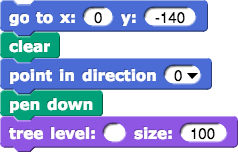
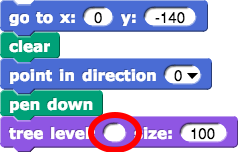
U6L1 review finished. (Two comments left: one where Paul and Mary want a copy-paste movie on p. 1, and one about not calling the lab "Trees in a Forest" if the exercise on page 5 that makes the forest is optional.)

Changed region(s): [[0.3529, 0.7368, 0.6176, 1.0]]

diff --git a/cur/programming/6-recursion/1-trees/3-tree-input-self-check.html b/cur/programming/6-recursion/1-trees/3-tree-input-self-check.html
@@ -9,8 +9,8 @@
 	<body>
 		<h2><code>Tree</code> Input Self Check</h2>
         <p>
-        	Each of these questions refer to this version of the <code>tree</code> block and this script that calls it. Notice the blank in the <code>tree</code> <var>level</var> input slot.<br />
-            <img class="indent" src="/bjc-r/img/6-recursion/tree-code-snap.png" alt="tree block definition" title="tree block definition"/>
+        	Each of these questions refer to this version of the <code>tree</code> block and this script that calls it. Notice the blank in the <code>tree</code> <var>level</var> input slot in the calling script. Inside the <code>tree</code> script, we have changed the turning angles and size scaling factors so that the left and right branches are the same, to make the pictures of trees easier to understand.<br />
+            <img class="indent" src="/bjc-r/img/6-recursion/quiztree.png" alt="tree block definition" title="tree block definition"/>
             <img class="indent" src="/bjc-r/img/6-recursion/tree-size-100-call.png" alt="tree toplevel script" title="tree toplevel script" />
         </p>
 		<!-- Question 1 -->
@@ -20,16 +20,16 @@
         
             <div class="prompt">
                 <img class="imageRight" src="/bjc-r/img/6-recursion/tree-level5.jpg" alt="How many levels in this tree?" title="How many levels in this tree?"/>
-                <p>If this were the picture that was drawn, what number must have been in the <var>level</var> input slot?</p>
+                <p>If this picture is drawn, what number must be in the <var>level</var> input slot?</p>
                 <p>In other words, what goes in the blank in the code above to make this image? </p>
             </div>
             
             <div class="choice" identifier="c0">
                 <div class="text">
-                    <b>0</b>
+                    <b>6</b>
                 </div>
                 <div class="feedback">
-                    Not quite. How many different sizes of line segment are in the picture?
+                    How many different sizes of line segment are in the picture?
                 </div>
             </div>
             
@@ -38,18 +38,11 @@
                     <b>1</b>
                 </div>
                 <div class="feedback">
-                    Not quite. How many different sizes of line segment are in the picture?
+                    How many different sizes of line segment are in the picture?
                 </div>
             </div>
             
-            <div class="choice" identifier="c4">
-                <div class="text">
-                    <b>4</b>
-                </div>
-                <div class="feedback">
-                    Not quite. How many different sizes of line segment are in the picture?
-                </div>
-            </div>
+
             
             <div class="choice" identifier="c5">
                 <div class="text">
@@ -59,7 +52,14 @@
                     Nice! There are indeed five different levels present in the tree.
                 </div>
             </div>
-        
+            <div class="choice" identifier="c4">
+                <div class="text">
+                    <b>4</b>
+                </div>
+                <div class="feedback">
+                    How many different sizes of line segment are in the picture?
+                </div>
+            </div>        
             <div class="responseDeclaration" identifier="ri1">
                 <div class="correctResponse" identifier="c5"></div>
             </div>
@@ -95,7 +95,7 @@
             
             <div class="choice" identifier="c2">
                 <div class="text">
-                    <b>Nothing - it will work just like if the same positive value was provided.</b>
+                    <b>It will work just as if the <var>size</var> were positive 100.</b>
                 </div>
                 <div class="feedback">
                     Not quite. What happens when we plug in a negative value to the <code>move</code> block?
@@ -136,29 +136,28 @@
             
             <div class="choice" identifier="c0">
                 <div class="text">
-                    <b>The program will never stop running and a lot of different branches will be drawn.</b>
+                    <b>The program will never stop running, but it will draw a tree-looking tree with more and more smaller and smaller branches.</b>
                 </div>
                 <div class="feedback">
-                    You're correct that the program will never stop running. Try walking through the code step-by-step to see exactly what happens.
+                    It's true that the program will never stop running. Try walking through the code step-by-step to see exactly what it draws.
                 </div>
             </div>
             
             <div class="choice" identifier="c1">
                 <div class="text">
-                    <b>It will never stop running and there will be no forks in the version of the tree that is drawn.</b>
+                    <b>It will never stop running, and the picture will be a leftward spiral with the sprite spinning around in midair.</b>
                 </div>
                 <div class="feedback">
-                    Correct! The function will never hit the <code>levels = 0</code> case, and will only ever make the first call to itself.
+                    Correct! The function will never hit the <code>level = 1</code> case, and will only ever make the left-branch call to itself.
                 </div>
             </div>
             
             <div class="choice" identifier="c2">
                 <div class="text">
-                    <b>Nothing - it will work just like if the same positive value was provided.</b>
+                    <b>It will work just as if the <var>size</var> were positive 4.</b>
                 </div>
                 <div class="feedback">
-                    Not quite. Will the <code>repeat until</code> loop's condition ever be true?
-                </div>
+                    Will the recursion ever reach level 1?</div>
             </div>
             
             <div class="choice" identifier="c3">
@@ -166,8 +165,7 @@
                     <b>The image will be flipped upside down but will otherwise look the same.</b>
                 </div>
                 <div class="feedback">
-                    Not quite. Will the <code>repeat until</code> loop's condition ever be true?
-                </div>
+                    Does the <var>level</var> input affect the <code>move</code> blocks?</div>
             </div>
             
                         <div class="choice" identifier="c4">

diff --git a/cur/programming/6-recursion/1-trees/2-base-case.html b/cur/programming/6-recursion/1-trees/2-base-case.html
@@ -9,13 +9,18 @@
 	<body>
 		<h2>The Base Case</h2>	
         <p>
-        	<div class="sidenote">Recall, <em>recursive</em> means a script that calls itself.</div>
-        	We first tried to build the recursive tree by using the same script as for <code>tree2</code>, <code>tree3</code>, etc. and replacing the call to a lower-level tree with a call to <code>tree</code> itself but with a lower level input, like this:<br />
+        	<div class="sidenote">Recall, a <em>recursive</em> script is a script that calls itself.</div>
+        	<p>Last time, we tried to replace all the numbered tree scripts with a single script following this pattern:</p>
+        	<p>&nbsp;</p>
+        	<p>&nbsp;</p>
+        	<p><img src="/bjc-r/img/6-recursion/tree2.png" height="267" alt="tree2 script">&nbsp;&nbsp; <img src="/bjc-r/img/6-recursion/tree3.png" height="267" alt="tree3 script">&nbsp;&nbsp;&nbsp;&nbsp;&nbsp;&nbsp;&nbsp;&nbsp;&nbsp;&nbsp;&nbsp;&nbsp; <img src="/bjc-r/img/6-recursion/tree-nobase.png" height="267" alt="tree, no base case"></p>
+       <!-- 	<p>We first tried to build the recursive tree by using the same script as for <code>tree2</code>, <code>tree3</code>, etc. and replacing the call to a lower-level tree with a call to <code>tree</code> itself but with a lower level input, like this:<br />
             <img class="indent" src="/bjc-r/img/6-recursion/tree-recursive-call.png" alt="tree level: (level - 1) size: (size × 0.65)" title="tree level: (level - 1) size: (size × 0.65)" />
-        </p>
-        <p>
-        	It did not work:<br />
-			<img class="indent" src="/bjc-r/img/6-recursion/tree-nobase.png" alt="buggy tree block definition" title="buggy tree block definition" />
+    </p>
+            </p>    -->
+       	<p>
+        	It didn't work:<br />
+	<!--		<img class="indent" src="/bjc-r/img/6-recursion/tree-nobase.png" alt="buggy tree block definition" title="buggy tree block definition" />  -->
 			<img class="indent" src="/bjc-r/img/6-recursion/treebug.gif" alt="picture of failing tree" title="picture of failing tree" />
         </p>
         <p>
@@ -52,22 +57,22 @@
                 	Point the sprite up, put the pen down, and run <code>tree level: 9 size: 50</code>. Now it  should work, and you should get a result like this:<br />
 					<img class="indent" src="/bjc-r/img/6-recursion/tree-level9.jpg" alt="picture of tree on stage" />
                 </li>
-                <li>The amount of time required to draw the tree goes up very quickly with the number of levels, so we don't recommend trying 20 levels. But try running level 8 through level 12 at various sizes.</li>
+                <li>The amount of time required to draw the tree goes up very quickly with the number of levels, so we don't recommend trying 20 levels. But try timing level 8 through level 12.</li>
 			</ol>
         </div>
         
         <div class="takeNote">
         	<img class="imageRight" src="/bjc-r/img/icons/take-turns-speaking-mini.gif" alt="Take turns speaking" title="Take turns speaking">
             <p><em>Recursive</em> scripts call themselves, but they can't keep doing it forever; they have to stop and go back at some point. That point is the <strong>base case</strong>, the simpler version of the script that <em>doesn't call the block itself</em>. This is typical in recursion.</p>
-            <p>There is usually a <em>conditional statement</em> (like <code>if-else</code>) with two cases: a <em>base case</em> for the lowest level that stops the recursion from going on forever and a <strong>recursive case</strong> that calls the script itself again and again at lower levels until it reaches the base case.</p>
-            <p>When a script <em>does</em> keep recursively calling itself forever (like when the sprite was just spinning around in one place), that's a bug, and we say it is stuck in an <strong>infinite loop</strong>.</p>
+            <p>There is usually a <em>conditional</em> (like <code>if-else</code>) with two cases: a <em>base case</em> for the lowest level that stops the recursion from going on forever and a <strong>recursive case</strong> that calls the script itself again and again at lower levels until it reaches the base case.</p>
+            <p>When a script <em>does</em> keep recursively calling itself forever (like when the sprite was just spinning around in one place), that's a bug, and we say the program is stuck in an <strong>infinite loop</strong>.</p>
         </div>
         
         <div class="forYouToDo">
             <ol start="4">
-                <li><img class="inline" src="/bjc-r/img/icons/talk-with-your-partner.png" alt="Talk with Your Partner" title="Talk with Your Partner" />Look at your corrected recursive <code>tree</code> script. Identify the <em>base case</em> and the <em>recursive case</em>, and discuss how recursion works in this script. </li>
+      <!--          <li><img class="inline" src="/bjc-r/img/icons/talk-with-your-partner.png" alt="Talk with Your Partner" title="Talk with Your Partner" />Look at your corrected recursive <code>tree</code> script. Identify the <em>base case</em> and the <em>recursive case</em>, and discuss how recursion works in this script. </li>    -->
                 <li>
-                    Try using a <var>count</var> variable inside the base case to record the number of times that the <code>tree</code> block is called when running different levels. Make a table. Do you see a pattern?
+                    Try using a global <var>count</var> variable, incremented first thing in the <code>tree</code> block, to record the number of times that  <code>tree</code>  is called when running different levels. Make a table. Do you see a pattern?
                     <table class="center bordered">
                         <tr>
                             <td><var>level</var></td>

diff --git a/cur/programming/6-recursion/1-trees/4-tree-variations-self-check.html b/cur/programming/6-recursion/1-trees/4-tree-variations-self-check.html
@@ -12,7 +12,7 @@
 	<body>
 		<h2><code>Tree</code> Variations Self Check</h2>
         <p>We took this recursive <code>tree</code> version and changed it in different  ways. Your goal is to figure out what we changed in the code. The original code and picture are shown below:<br />
-            <img class="indent" src="/bjc-r/img/6-recursion/tree-code-snap.png" alt="tree block definition" title="tree block definition" />
+            <img class="indent" src="/bjc-r/img/6-recursion/quiztree.png" alt="tree block definition" title="tree block definition" />
             <img class="indent noshadow" src="/bjc-r/img/6-recursion/tree-level5.jpg" alt="tree level: (5) size: (100)" title="tree level: (5) size: (100)" />
         </p>
         
@@ -30,7 +30,7 @@
             
             <div class="choice" identifier="c0">
                 <div class="text">
-                    <b>We changed the turn amount between each branch.</b>
+                    <b>We changed the turn amount between  branches.</b>
                 </div>
                 <div class="feedback">
                     Nice!
@@ -42,7 +42,7 @@
                     <b>We changed the scaling factor (how much the length decreases each time).</b>
                 </div>
                 <div class="feedback">
-                    Not quite. Notice how the branches are now tilted differently from those in the original image.
+                    Notice how the branches are now tilted differently from those in the original image.
                 </div>
             </div>
             
@@ -51,7 +51,7 @@
                     <b>We added additional recursive calls to the function and other angle stuff to make it all work out.</b>
                 </div>
                 <div class="feedback">
-                    Not quite. There are still the same number of branches at each stage.
+                    There are still the same number of branches at each stage.
                 </div>
             </div>
         
@@ -74,10 +74,10 @@
             
             <div class="choice" identifier="c0">
                 <div class="text">
-                    <b>We changed the turn amount between each branch.</b>
+                    <b>We changed the turn amount between  branches.</b>
                 </div>
                 <div class="feedback">
-                    We do change angles here, those are not the only changes we make. Where did those other extra come from?
+                    We did change  angles here, but those are not the only changes we made. Where did those  extra branches come from?
                 </div>
             </div>
             
@@ -86,7 +86,7 @@
                     <b>We changed the scaling factor (how much the length decreases each time).</b>
                 </div>
                 <div class="feedback">
-                    The scale factor looks pretty similar to the original.
+                    The branch lengths look pretty similar to the original.
                 </div>
             </div>
             
@@ -118,7 +118,7 @@
             
             <div class="choice" identifier="c0">
                 <div class="text">
-                    <b>We changed the turn amount between each branch.</b>
+                    <b>We changed the turn amount between  branches.</b>
                 </div>
                 <div class="feedback">
                     The angles look pretty similar to the original.
@@ -139,7 +139,7 @@
                     <b>We added additional recursive calls to the function and other angle stuff to make it all work out.</b>
                 </div>
                 <div class="feedback">
-                    Not quite! There are the same number of branches, and the angles haven't changed.
+                    There are the same number of branches, and the angles haven't changed.
                 </div>
             </div>
         
@@ -162,7 +162,7 @@
             
             <div class="choice" identifier="c0">
                 <div class="text">
-                    <b>We changed the turn amount between each branch.</b>
+                    <b>We changed the turn amount between  branches.</b>
                 </div>
                 <div class="feedback">
                     The angles look pretty similar to the original.
@@ -183,7 +183,7 @@
                     <b>We added additional recursive calls to the function and other angle stuff to make it all work out.</b>
                 </div>
                 <div class="feedback">
-                    Not quite! There are the same number of branches, and the angles haven't changed.
+                    There are the same number of branches, and the angles haven't changed.
                 </div>
             </div>
         
@@ -227,7 +227,7 @@
                     <b>We added additional recursive calls to the function and other angle stuff to make it all work out.</b>
                 </div>
                 <div class="feedback">
-                    Not quite! There are the same number of branches in this tree.
+                    There are the same number of branches in this tree.
                 </div>
             </div>
         

diff --git a/cur/programming/6-recursion/1-trees/5-vary-your-tree.html b/cur/programming/6-recursion/1-trees/5-vary-your-tree.html
@@ -12,11 +12,11 @@
         	<ol>
 				<li>
                 	Experiment! Try varying your tree in the following ways: 
-                    <div class="sidenoteBig">You should probably try these one at a time, so that you can always tell exactly what edit in your script relates to the changes on the stage.</div>
+                    <div class="sidenoteBig">You should revert to the original script after each experiment, so that you can always tell exactly what edit in your script relates to the changes on the stage.</div>
                 	<ul>
                         <li>Change the turn angle.</li>
                         <li>Change the scale factor.</li>
-                        <li>Change the number of recursive calls.</li>
+                        <li>Change the number of branches at each level.</li>
                     </ul>
                 </li>
             </ol>
@@ -24,13 +24,17 @@
         
         <div class="ifTime">
         	<ol start="2">
+<li>Change the pen thickness between levels, so that the trunk is really thick and the leaves are thin.<br /><img src="/bjc-r/img/6-recursion/thicktree.png" alt="tree with thick trunk">
+</li>
             	<li> 
                     Make a more realistic tree with a brown trunk and branches and green leaves.<br />
                     <div class="sidenote">You do not have to get it exactly like the picture.</div>
-                    <img class="indent" src="/bjc-r/img/6-recursion/real-tree.jpg" alt="realistic tree" title="realistic tree" /><br />
+                    <img class="indent" src="/bjc-r/img/6-recursion/leafytree.png" alt="realistic tree" title="realistic tree" /><br />
                 </li>
+                <div class="takeItFurther"><ol type="A"><li>You probably found the green leaves harder to debug than the varying thickness.  What went wrong with drawing the leaves green?  Why didn't the same problem come up for the thickness?</li></ol></div>
+                
                 <li>
-                	Make a tree that looks more random. Here are some examples:<br />
+                	Put some randomness in the choice of angles and/or scaling factors. Here are some examples:<br />
                     <div class="center">
                         <img src="/bjc-r/img/6-recursion/random-tree1.jpg" alt="a random tree" title="a random tree"/>
                         <img src="/bjc-r/img/6-recursion/random-tree2.jpg" alt="a random tree" title="a random tree"/>
@@ -42,13 +46,9 @@
                         <img src="/bjc-r/img/6-recursion/random-tree6.jpg" alt="a random tree" title="a random tree"/>
                     </div>
                 </li>
-            </ol>
-        </div>
-        
-		<div class="takeItFurther"><a name="further" class="anchor">&nbsp;</a>
-    		<ol type="A">
-            	<li>
-                    Make a forest by planting varied trees randomly on the stage.<br />
+<div class="comment">Either make this non-optional or change the name of the lab to just "Trees."</div>
+<a name="further" class="anchor">&nbsp;</a>
+ <li>                   Make a forest by planting varied trees randomly on the stage.<br />
                     <img class="indent" src="/bjc-r/img/6-recursion/forest.png" alt="forest of trees" title="forest of trees" />
                 </li>
             </ol>

diff --git a/cur/programming/6-recursion/1-trees/1-recursive-tree.html b/cur/programming/6-recursion/1-trees/1-recursive-tree.html
@@ -56,13 +56,18 @@
     </div>
 		
         <div class="takeNote"><strong>State transparency</strong> (undoing any changes you make) is important when  blocks depend on other blocks. Usually, this means returning the sprite to the same position and direction as it started.</div>
-        
+<div class="comment">Paul and Mary want to use copy and paste here.</div>        
         <div class="forYouToDo">
             <ol start="3">
                 
                 <li>Make a <code>tree3</code> block that uses the <code>tree2</code> block.</li>
                 
               <li>Make a <code>tree4</code> block that uses the <code>tree3</code> block.</li>
+              <!--                <div class="endnote">
+                	Right-click (or control-click on a mac) a block to "duplicate" or "relabel" blocks to make these tasks much faster.<br />
+                    <p class="center"><img src="/bjc-r/img/6-recursion/dup-and-relabel.gif" alt="duplicate and relabel menu options" title="duplicate and relabel menu options" /></p>
+                </div>
+-->
                 <li>
                     If you can stand it, make a <code>tree5</code> block that uses the <code>tree4</code> block. Running <code>tree5 size: 50</code> should produce a result like this:<br />
                     <img class="indent" src="/bjc-r/img/6-recursion/tree5.png" alt="tree5 size: 50" title="tree5 size: 50" /> 
@@ -84,6 +89,13 @@
                 </li>
                 <li>
 <img class="inline" src="/bjc-r/img/icons/talk-with-your-partner.png" alt="Talk with Your Partner" title="Talk with Your Partner" />               	Now try the <code>tree</code> block. What happens? <em>Why</em> does it happen? When you know the answer, go to the next activity.</li>
-
+<!--                 	Now run <code>tree level: 9 size: 50</code>. It doesn't work yet. All you see is: <br />
+					<img class="indent" src="/bjc-r/img/6-recursion/treebug.jpg" alt="picture of failing tree" title="picture of failing tree" />
+                </li>
+                <li><img class="inline" src="/bjc-r/img/icons/talk-with-your-partner.png" alt="Talk with Your Partner" title="Talk with Your Partner" /> Try to debug the script. What's going wrong?</li>
+            </ol>
+        </div>                    
+        
+-->
 	</body>
 </html>
